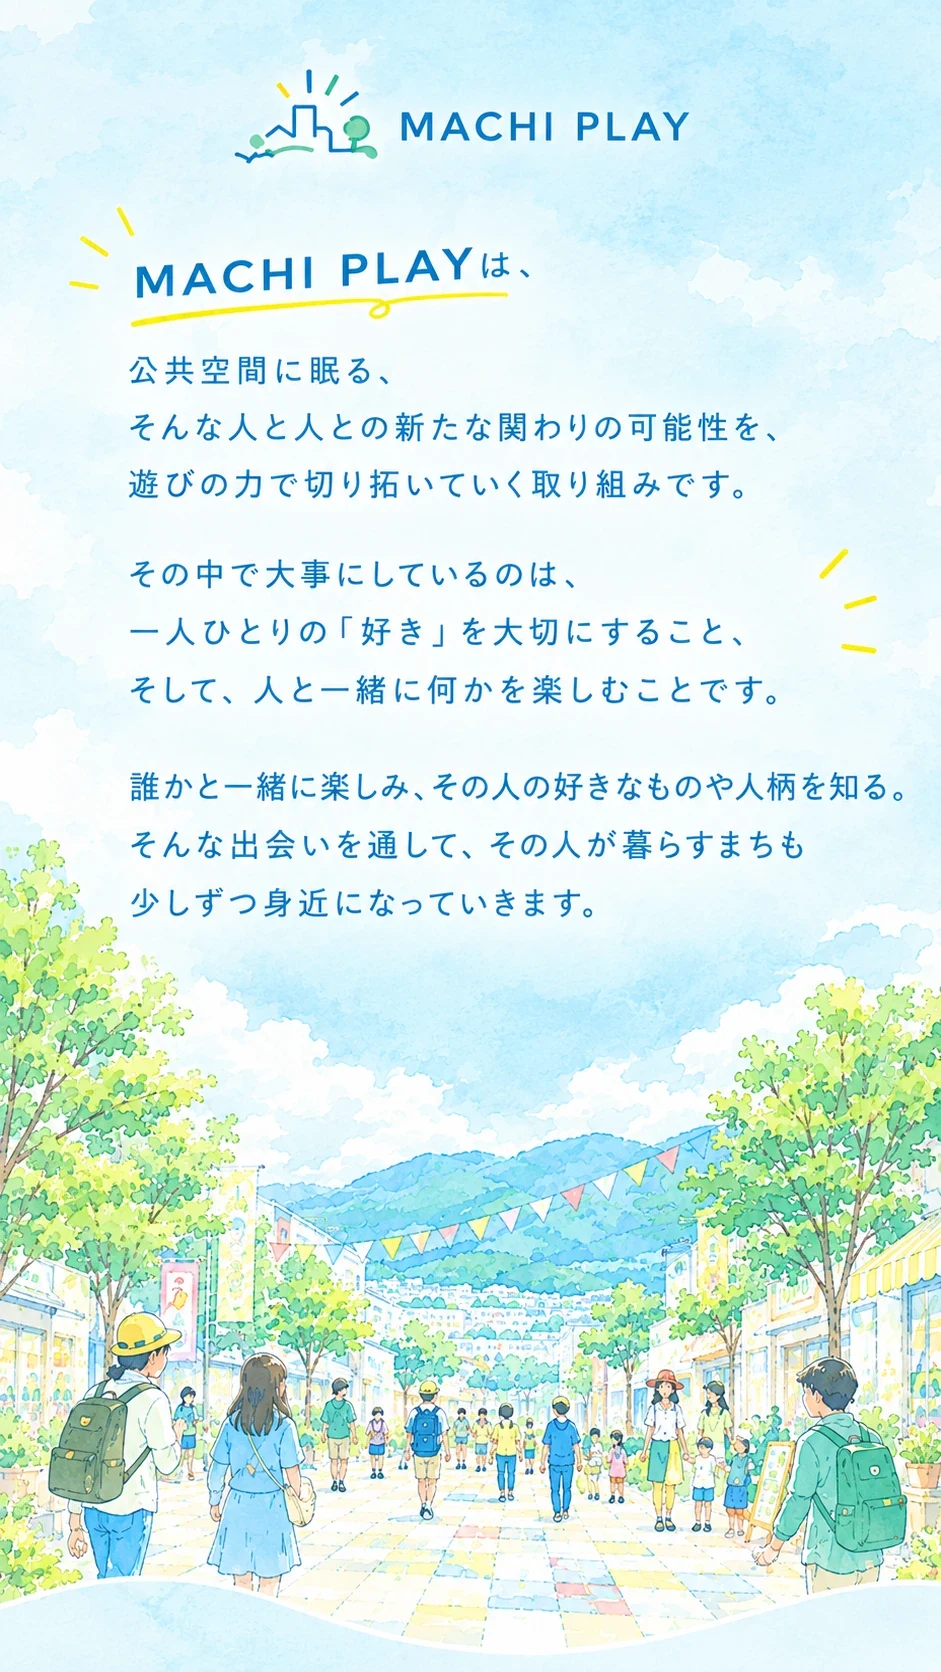
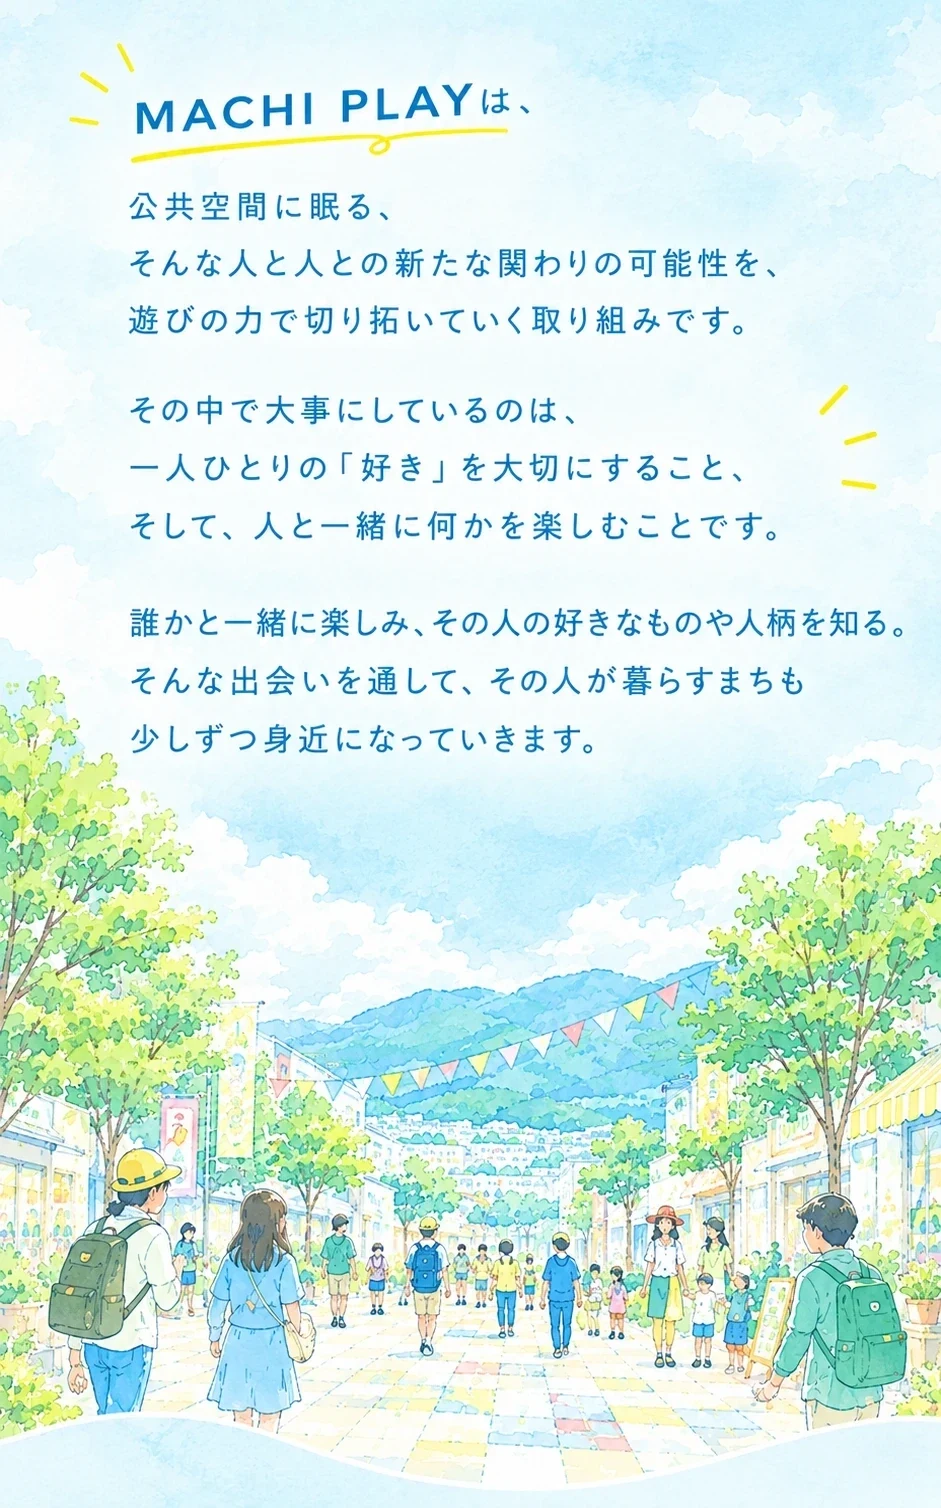
Hold each panel still and swap it in place
On phones the three panels are stacked in one pinned stage, so the picture
no longer travels with the scroll: scrolling about a screen crosses a marker
and the next panel cross-fades in where the last one was. The logo-free
artwork the user supplied replaces panels two and three.

diff --git a/top-c/index.html b/top-c/index.html
@@ -143,17 +143,20 @@ a{color:inherit}
 @media(max-width:860px){
   .intro{display:none}
   .panels{display:block;background:#fff}
-  .panel{position:relative;height:100svh;min-height:480px;overflow:hidden;
-    display:grid;place-items:center}
+  /* 3枚を同じ場所に重ねる。絵は貼りついたまま動かず、スクロール量で入れ替わる */
+  .panels{position:relative}
+  .stage{position:sticky;top:0;height:100svh;min-height:480px;overflow:hidden;
+    margin-bottom:-100svh}
+  .trig{display:block;height:100svh;min-height:480px}
+  .slide{position:absolute;inset:0;display:grid;place-items:center}
   /* 枠は絵にぴったり沿わせる。この中なら、見出しの位置が絵と合う */
   .p-wrap{position:relative;display:inline-grid;max-width:100%;max-height:100%}
   /* 絵の形がどれでも、画面の幅と高さの両方に収める */
   .p-wrap .p-bg{display:block;width:auto;height:auto;max-width:100vw;max-height:100svh}
-  /* 見出しは絵の上に重ね、スクロールに少しついてくる */
-  .p-wrap .p-ttl{position:absolute;z-index:2;left:6.5%;top:7%;width:85%;height:auto;
-    display:block;transform:translateY(var(--ty,0px))}
-  /* 切り替わるときは、絵と見出しがいっしょに変わる */
-  .panels.js .panel{opacity:var(--o,0);transition:opacity .3s linear}
+  .p-wrap .p-ttl{position:absolute;z-index:2;left:6.5%;top:7%;width:85%;height:auto;display:block}
+  /* 切り替わりは、その場でゆっくり入れ替わる */
+  .panels.js .slide{opacity:0;transition:opacity .45s ease}
+  .panels.js .slide.on{opacity:1}
   /* 絵の上に文字を置かず、絵の下に順番に並べる */
   /* 絵を画面いっぱいに出し、その上に文字を置く */
   .hero-full{height:calc(100svh - 64px)}
@@ -379,14 +382,23 @@ footer{border-top:1px solid var(--line);margin-top:30px;padding:36px 0 56px;colo
 </section>
 
 <section class="panels" id="story">
-  <div class="panel"><div class="p-wrap"><img class="p-bg" src="../assets/sp-panel-1.webp" width="941" height="1672" loading="lazy"
-    alt="まちには、目的地へ向かうための道や、ただ通り過ぎるだけの広場があります。そこでは、多くの人が同じ場所を利用していても、互いを知ったり、関わったりする機会はそう多くありません。けれど、そんな公共空間にも、人と人が出会い、お互いを知るきっかけが眠っています。">
-    <img class="p-ttl" src="../assets/q-heading-sp.webp" width="585" height="297" loading="lazy"
-      alt="毎日歩くその道で、最後に足を止めたのはいつですか？"></div></div>
-  <div class="panel"><div class="p-wrap p-wrap-2"><img class="p-bg" src="../assets/sp-panel-2.webp" width="941" height="1672" loading="lazy"
-    alt="MACHI PLAYは、公共空間に眠る、そんな人と人との新たな関わりの可能性を、遊びの力で切り拓いていく取り組みです。その中で大事にしているのは、一人ひとりの「好き」を大切にすること、そして、人と一緒に何かを楽しむことです。誰かと一緒に楽しみ、その人の好きなものや人柄を知る。そんな出会いを通して、その人が暮らすまちも少しずつ身近になっていきます。"></div></div>
-  <div class="panel"><div class="p-wrap p-wrap-3"><img class="p-bg" src="../assets/sp-panel-3.webp" width="941" height="1672" loading="lazy"
-    alt="いつもの道や広場に、思いがけない出会いや楽しみをつくる。そんな夢に向かって、「楽しい」と「好き」を大切にしながら、これからも活動を続けていきます。"></div></div>
+  <div class="stage">
+    <div class="slide on">
+      <div class="p-wrap"><img class="p-bg" src="../assets/sp-panel-1.webp" width="941" height="1672"
+        alt="まちには、目的地へ向かうための道や、ただ通り過ぎるだけの広場があります。そこでは、多くの人が同じ場所を利用していても、互いを知ったり、関わったりする機会はそう多くありません。けれど、そんな公共空間にも、人と人が出会い、お互いを知るきっかけが眠っています。">
+        <img class="p-ttl" src="../assets/q-heading-sp.webp" width="585" height="297"
+          alt="毎日歩くその道で、最後に足を止めたのはいつですか？"></div>
+    </div>
+    <div class="slide">
+      <div class="p-wrap"><img class="p-bg" src="../assets/sp-panel-2.webp" width="941" height="1508" loading="lazy"
+        alt="MACHI PLAYは、公共空間に眠る、そんな人と人との新たな関わりの可能性を、遊びの力で切り拓いていく取り組みです。その中で大事にしているのは、一人ひとりの「好き」を大切にすること、そして、人と一緒に何かを楽しむことです。誰かと一緒に楽しみ、その人の好きなものや人柄を知る。そんな出会いを通して、その人が暮らすまちも少しずつ身近になっていきます。"></div>
+    </div>
+    <div class="slide">
+      <div class="p-wrap"><img class="p-bg" src="../assets/sp-panel-3.webp" width="941" height="1524" loading="lazy"
+        alt="いつもの道や広場に、思いがけない出会いや楽しみをつくる。そんな夢に向かって、「楽しい」と「好き」を大切にしながら、これからも活動を続けていきます。"></div>
+    </div>
+  </div>
+  <i class="trig"></i><i class="trig"></i><i class="trig"></i>
 </section>
 
 <div class="pbar">
@@ -566,35 +578,19 @@ footer{border-top:1px solid var(--line);margin-top:30px;padding:36px 0 56px;colo
 </script>
 <!-- Cloudflare Web Analytics --><script type='module' src='https://static.cloudflareinsights.com/beacon.min.js' data-cf-beacon='{"token": "c351ef734eb54b488d820041ba2f7e84"}'></script><!-- End Cloudflare Web Analytics -->
 <script>
-/* スマホの全画面パネル：画面に入っているぶんだけ濃くする */
+/* スマホの全画面パネル：画面の中央を横切った目印に合わせて、その場で入れ替える */
 (function(){
   var box = document.querySelector('.panels');
   if(!box || !('IntersectionObserver' in window)) return;
-  if(matchMedia('(prefers-reduced-motion: reduce)').matches) return;
+  var slides = [].slice.call(box.querySelectorAll('.slide'));
+  var trigs  = [].slice.call(box.querySelectorAll('.trig'));
+  if(slides.length < 2 || slides.length !== trigs.length) return;
   box.classList.add('js');
-  var panels = [].slice.call(box.querySelectorAll('.panel'));
+  function show(i){ slides.forEach(function(el, k){ el.classList.toggle('on', k === i); }); }
   var io = new IntersectionObserver(function(list){
-    list.forEach(function(e){
-      var o = Math.max(0, Math.min(1, (e.intersectionRatio - 0.18) / 0.5));
-      e.target.style.setProperty('--o', o.toFixed(3));
-    });
-  }, { threshold: Array.from({length:21}, function(_, i){ return i / 20; }) });
-  panels.forEach(function(el){ io.observe(el); });
-
-  /* 見出しは、パネルが流れるあいだ少しついてくる */
-  var tops = [].slice.call(box.querySelectorAll('.p-ttl')), ticking = false;
-  function follow(){
-    ticking = false;
-    tops.forEach(function(t){
-      var r = t.parentNode.getBoundingClientRect();
-      var prog = Math.max(0, Math.min(1, -r.top / r.height));
-      t.style.setProperty('--ty', (prog * r.height * 0.11).toFixed(1) + 'px');
-    });
-  }
-  addEventListener('scroll', function(){
-    if(!ticking){ ticking = true; requestAnimationFrame(follow); }
-  }, { passive: true });
-  addEventListener('resize', follow); follow();
+    list.forEach(function(e){ if(e.isIntersecting) show(trigs.indexOf(e.target)); });
+  }, { rootMargin: '-50% 0px -50% 0px', threshold: 0 });
+  trigs.forEach(function(t){ io.observe(t); });
 })();
 /* 狭い画面のメニュー開閉 */
 (function(){
